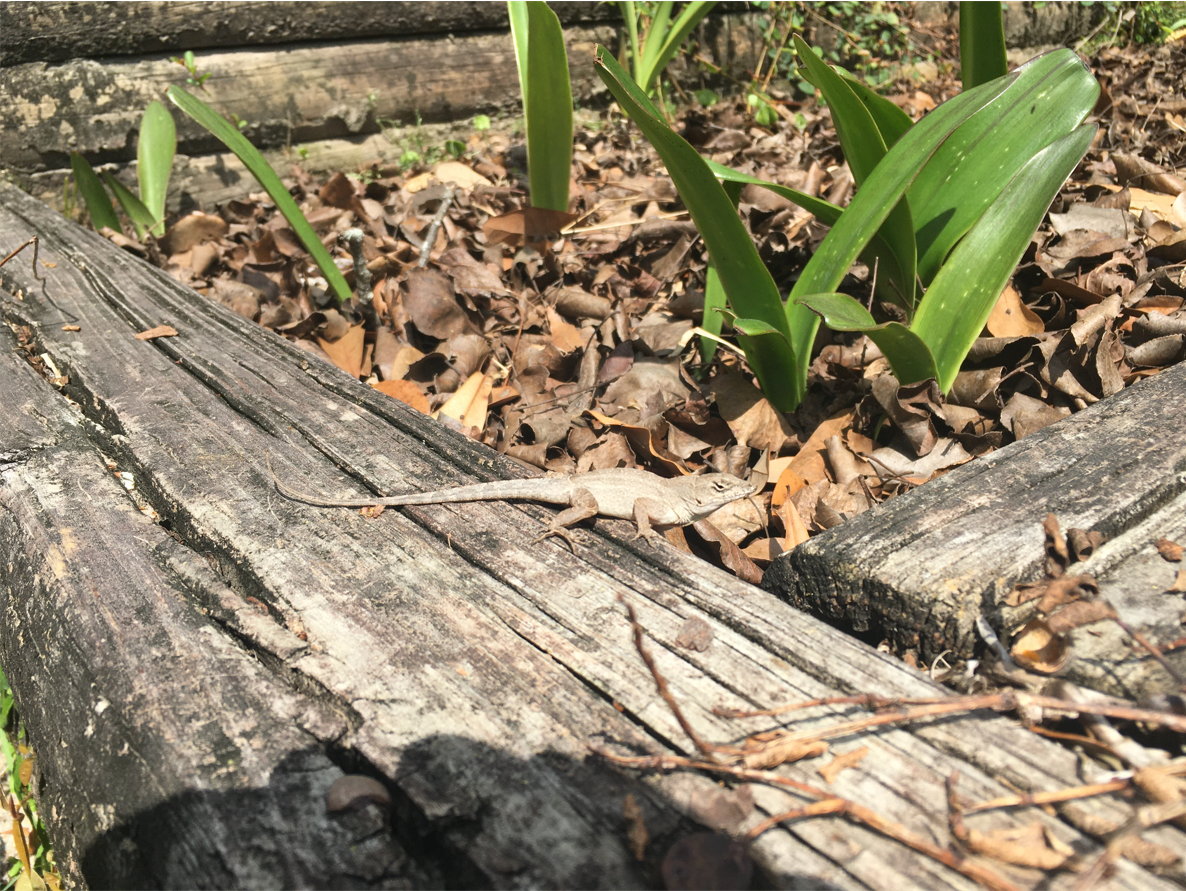
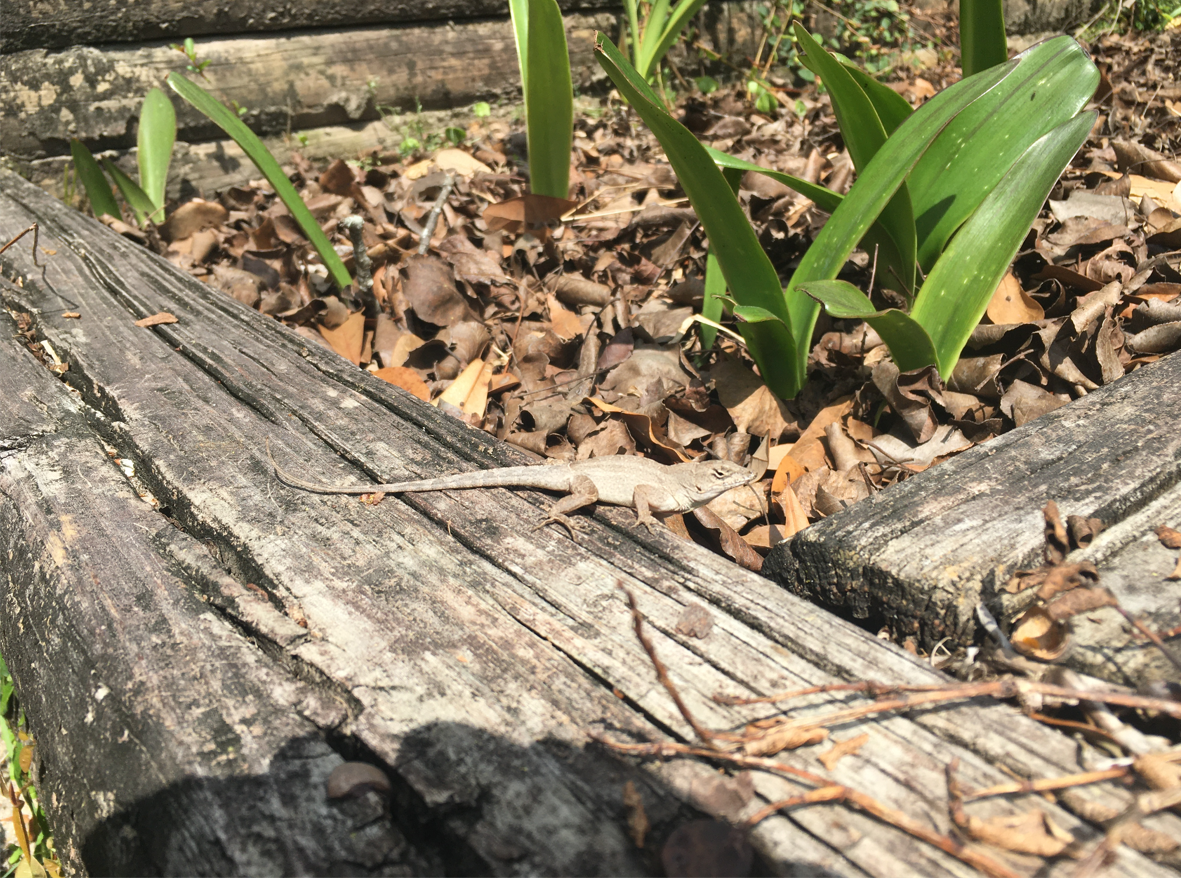
photos

diff --git a/gallery.html b/gallery.html
@@ -76,10 +76,14 @@
                 margin-right: 25px;
                 padding: 10px;
             }
-            
+
             img {
                 border: 5px solid rgb(37, 37, 37);
                 border-radius: 3px;
+                display: block;
+                margin-left: auto;
+                margin-right: auto;
+
             }
 
         </style>
@@ -107,10 +111,10 @@
         <main>
             <div class = "sidebar">
                 <img class = "sidebar-image" src = "photos/sweetpotatoflowerssnip.PNG" alt = "Sweet Potato Flowers"
-                 height = 600 width = 450>
+                 >
 
                  <img class = "sidebar-image" src = "photos/lizardsnip.PNG" alt = "Brown Anole"
-                 height = 600 width = 450>
+                 >
             
 
                 <div class = "content">

diff --git a/index.html b/index.html
@@ -53,13 +53,12 @@
                         margin-right: 25px;
                         padding: 10px;
                     }
-                    .sidebar-img {
-                        width: 200px;
-                    }
+                    
 
                     img {
                         border: 5px solid rgb(37, 37, 37);
                         border-radius: 3px;
+
                     }
                     .content {
                         flex: 1;
